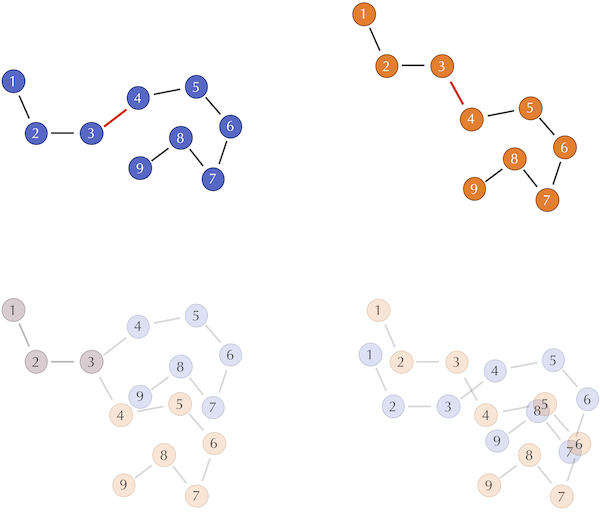
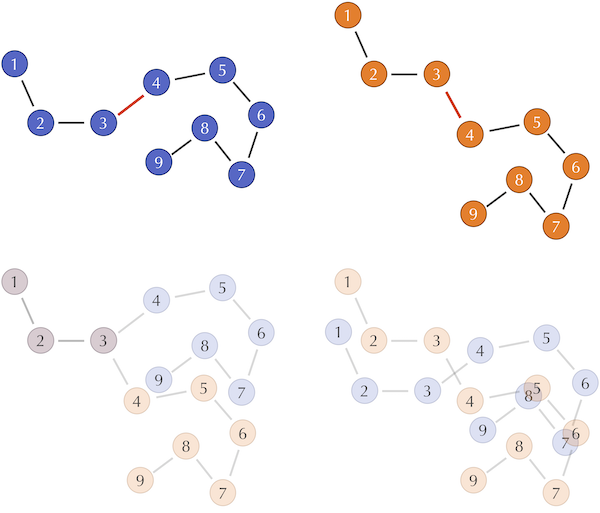
polishing up rest of rmsd

diff --git a/assets/tex/chapters/coronavirus_1.tex b/assets/tex/chapters/coronavirus_1.tex
@@ -543,15 +543,13 @@ Throughout the above discussion, we have assumed that we already rotated (and po
 \phantomsection
 \subsection{PDB format represents a protein's structure}
 
-The Kabsch algorithm offers a compelling way to determine the similarity of two protein structures. We can convert a protein containing \textit{n} amino acids into a vector of length \textit{n} by selecting a single representative point from each amino acid. We typically use the alpha carbon, the amino acid's centrally located carbon atom (recall the chemical structure of an amino acid from \autoref{fig:AminoAcid}).
-
-Whether a protein structure is experimentally validated or predicted by an algorithm, the structure is often represented in a unified file format used by the PDB called \texttt{.pdb} format (\autoref{fig:simplifiedPDB}). In this format, each atom in the protein is labeled according to several different characteristics, including: the element from which the atom derives; the amino acid in which the atom is contained; the chain on which this amino acid is found; the position of the amino acid within this chain; and the 3D coordinates $(x, y, z)$ of the atom in angstroms ($10^{-10}$ meters).\\
+The Kabsch algorithm offers a compelling way to determine the similarity of two protein structures. We can convert a protein containing \textit{n} amino acids into a vector of length \textit{n} by selecting a single representative point from each amino acid. We typically use the alpha carbon, the amino acid's centrally located carbon atom (recall the chemical structure of an amino acid from \autoref{fig:AminoAcid}).\\
 
 \begin{figure}[h]
 \centering
 \mySfFamily
-\tiny
-\tabcolsep = 0.47em
+\scriptsize
+\tabcolsep = 0.4em
 \rowcolors{2}{gray!25}{white}
 \begin{tabular}{c c c c c c c c c c}
 \rowcolor{gray!50}
@@ -576,43 +574,40 @@ Whether a protein structure is experimentally validated or predicted by an algor
 \gray{2174} & ATOM & 16 & CZ & TYR& A & 28 & 173.161& 246.477& 224.723\\
 \gray{2175} & ATOM & 17 & OH & TYR& A & 28 & 172.710& 245.746& 225.795
 \end{tabular}
-\caption{Lines \text{2,159} to \text{2,175} of the \texttt{.pdb} file for the experimentally verified SARS-CoV-2 spike protein structure, PDB entry \href{http://www.rcsb.org/structure/6VXX}{6vxx}. These 17 lines contain information on the atoms taken from two amino acids, alanine and tyrosine. The rows corresponding to these amino acids' alpha carbons are shown in green and appear as ``CA'' under the ``Element'' column.  We have labeled the columns to make it clear what each column corresponds to: ``Index'' refers to the number of the amino acid; ``Element'' identifes the chemical element to which this atom corresponds; ``Chain'' indicates which chain the atom is found on; ``Position'' identifies the position in the protein of the amino acid from which the atom is taken; ``Coordinates'' indicates the \textvar{x}, \textvar{y}, and \textvar{z} coordinates of the atom's location in angstroms.}
+\caption{Lines \text{2,159} to \text{2,175} of the \texttt{.pdb} file for the experimentally verified SARS-CoV-2 spike protein structure, PDB entry \href{http://www.rcsb.org/structure/6VXX}{6vxx}. These 17 lines contain information on the atoms taken from two amino acids, alanine and tyrosine. The rows corresponding to these amino acids' alpha carbons are shown in green and appear as ``CA'' under the ``Element'' column.  We have labeled the columns to make it clear what each column corresponds to: ``Index'' refers to the number of the amino acid; ``Element'' identifies the chemical element to which this atom corresponds; ``Chain'' indicates which chain the atom is found on; ``Position'' identifies the position in the protein of the amino acid from which the atom is taken; ``Coordinates'' indicates the \textvar{x}, \textvar{y}, and \textvar{z} coordinates of the atom's location (in angstroms).}
 \label{fig:simplifiedPDB}
 \end{figure}
+
+Whether a protein structure is experimentally validated or predicted by an algorithm, the structure is often represented in a unified file format used by the PDB called \texttt{.pdb} format (\autoref{fig:simplifiedPDB}). In this format, each atom in the protein is labeled according to several different characteristics, including: the element from which the atom derives; the amino acid in which the atom is contained; the chain on which this amino acid is found; the position of the amino acid within this chain; and the 3D coordinates $(x, y, z)$ of the atom in angstroms ($10^{-10}$ meters).\\
 
 \begin{note}[%
 	\autoref{fig:simplifiedPDB} shows just part of the information needed to fully represent a protein structure. For example, a \texttt{.pdb} file will also contain information about the disulfide bonds between amino acids. For more information, consult the \href{http://www.wwpdb.org/documentation/file-format}{official PDB documentation}.
 	]\end{note}
 
-\FloatBarrier
 \phantomsection
 \subsection{The Kabsch algorithm can be fooled}
 
-\begin{qbox}[%
-	Can you think of an example in which a small difference between protein structures can cause a large inflation in RMSD score?
-	]\end{qbox}
+Although the Kabsch algorithm is powerful, we should be careful when using it. Consider \autoref{fig:RMSD_weakness_mutation}, which shows two toy protein structures; the orange structure (\textit{S}) is identical to the blue structure (\textit{T}) except for a change in a single bond angle between the third and fourth amino acids. And yet this tiny change in the protein's structure causes a significant increase in $d(s_{i}, t_{i})$ for every \textit{i} greater than 3, which inflates the RMSD.
 
-Unfortunately, the Kabsch algorithm can be fooled. Consider \autoref{fig:RMSD_weakness_mutation} showing two toy protein structures. The orange structure (\textit{S}) is identical to the blue structure (\textit{T}) except for a change in a single bond angle between the third and fourth amino acids. And yet this tiny change in the protein's structure causes a significant increase in $d(s_{i}, t_{i})$ for every \textit{i} greater than 3, which inflates the RMSD.
-
-\begin{figure}[p]
+\begin{figure}[ht]
 	\centering
 	\mySfFamily
-	\includegraphics[width = 0.8\textwidth]{../images/RMSD_weakness_mutation.png}
-	\caption{(Top) Two hypothetical protein structures that differ in only a single bond angle between the third and fourth amino acids, shown in red. Each circle represents an alpha carbon. (Bottom left) Superimposing the first three amino acids shows how much the change in the bond angle throws off the computation of RMSD by increasing the distances between corresponding alpha carbons. (Bottom right) The Kabsch algorithm would align the centers of gravity of the two structures in order to minimize RMSD between corresponding alpha carbons. This alignment belies the similarity in the structures and makes it difficult for the untrained observer to notice that the two proteins only really differ in a single bond angle.}
+	\includegraphics[width = 0.7\textwidth]{../images/RMSD_weakness_mutation.png}\\[2ex]
+	\caption{(Top) Two hypothetical protein structures that differ in only a single bond angle between the third and fourth amino acids, shown in red. Each circle represents an alpha carbon. (Bottom left) Superimposing the first three amino acids shows how much the change in the bond angle throws off the computation of RMSD by increasing the distances between corresponding alpha carbons. (Bottom right) The Kabsch algorithm would align the centers of gravity of the two structures in order to minimize RMSD between corresponding alpha carbons. This alignment belies the similarity in the structures and makes it difficult for the untrained observer to notice that the two proteins only differ in a single bond angle.}
 	\label{fig:RMSD_weakness_mutation}
 \end{figure}
 
-Another way in which the Kabsch algorithm can be fooled is in the case of an appended substructure that throws off the ordering of the amino acids. \autoref{fig:RMSD_weakness_loop} shows a toy example of a structure into which we incorporate a loop, thus throwing off the natural order of comparing amino acids. (The same effect is caused if one or more amino acids are deleted from one of the two proteins.)\\
+Another way in which the Kabsch algorithm can be tricked is in the case of an appended substructure that throws off the ordering of the amino acids. \autoref{fig:RMSD_weakness_loop} shows a toy example of a structure into which we incorporate a loop, thus throwing off the natural order of comparing amino acids. (The same effect is caused if one or more amino acids are deleted from one of the two proteins.)
 
-\begin{figure}[h]
+\begin{figure}[hb]
 	\centering
 	\mySfFamily
 	\includegraphics[width = 0.7\textwidth]{../images/RMSD_weakness_loop.png}
-	\caption{A simplification of two protein structures, one of which includes a loop of three amino acids. After the loop, each amino acid in the orange structure will be compared against an amino acid that occurs farther long in the blue structure, thus increasing $\textvar{d}(\textvar{s}_{\textvar{i}}, \textvar{t}_{\textvar{i}})^\text{2}$ for each such amino acid.}
+	\caption{Two toy two protein structures, one of which includes a loop of three amino acids. After the loop, each amino acid in the orange structure will be compared against an amino acid that occurs farther long in the blue structure, thus increasing $\textvar{d}(\textvar{s}_{\textvar{i}}, \textvar{t}_{\textvar{i}})^\text{2}$ for each such amino acid.}
 	\label{fig:RMSD_weakness_loop}
 \end{figure}
 
-To address this shortcoming, biologists will often align the sequences of two proteins first, discarding any positions that do not align well when it comes time to perform the RMSD calculation. We will soon see an example of a protein sequence alignment soon when comparing the coronavirus spike proteins.
+To address this second issue, biologists will often align the sequences of two proteins first, discarding any positions that do not align well when it comes time to perform the RMSD calculation. We will soon see an example of a protein sequence alignment when comparing the coronavirus spike proteins.
 
 In short, if the RMSD of two proteins is \textit{large}, then we should be wary of concluding that the proteins are very different, and we may need to combine RMSD with other methods of structure comparison. But if the RMSD is \textit{small} (e.g., just a few angstroms), then we can have confidence that the proteins are indeed similar.
 

diff --git a/_pages/coronavirus/accuracy.md b/_pages/coronavirus/accuracy.md
@@ -36,8 +36,6 @@ We first translate *S* to have the same **center of mass** (or **center of mass*
 
 The center of mass of some shapes, like the arc in the preceding example, can be determined mathematically. But for irregular shapes, we will first sample *n* points from the boundary of *S* and then estimate *x*<sub><em>S</em></sub> and *y*<sub><em>S</em></sub> as the average of all the respective *x*- and *y*-coordinates from the sampled points.
 
-
-
 After finding the center of mass of the two shapes *S* and *T* that we wish to compare, we translate *S* so that it has the same center of mass as *T*. We then wish to find the rotation of *S*, possibly along with a flip as well, that makes the shape resemble *T* as much as possible.
 
 Imagine that we have found the desired rotation; we are now ready to define *d*(*S*, *T*) in the following way. We sample *n* points along the boundary of each shape, converting *S* and *T* into **vectors** **s** = (*s*<sub>1</sub>, ..., *s*<sub><em>n</em></sub>) and **t** = (*t*<sub>1</sub>, ..., *t*<sub><em>n</em></sub>), where *s*<sub><em>i</em></sub> is the *i*-th point on the boundary of *S*. The **root mean square deviation (RMSD)** between the two shapes is the square root of the average squared distance between corresponding points in the vectors,
@@ -77,10 +75,6 @@ However, we have still assumed that we already rotated (and possibly flipped) *S
 
 The best way of rotating and flipping *S* so as to minimize the RMSD between the resulting vectors *s* and *t* can be found with a method called the **Kabsch algorithm**. Explaining this algorithm requires some advanced linear algebra and is beyond the scope of our work but is described <a href="https://en.wikipedia.org/wiki/Kabsch_algorithm" target="_blank">here</a>.
 
-## PDB format represents a protein’s structure
-
-The Kabsch algorithm offers a compelling way to determine the similarity of two protein structures. We can convert a protein containing *n* amino acids into a vector of length *n* by selecting a single representative point from each amino acid. We typically use the alpha carbon, the amino acid's centrally located carbon atom; the position of this atom will be present in the `.pdb` file for a given structure.
-
 ## PDB format represents a protein's structure
 
 The Kabsch algorithm offers a compelling way to determine the similarity of two protein structures. We can convert a protein containing *n* amino acids into a vector of length *n* by selecting a single representative point from each amino acid. We typically use the alpha carbon, the amino acid’s centrally located carbon atom.
@@ -93,8 +87,8 @@ Whether a protein structure is experimentally validated or predicted by an algor
 4. the position of the amino acid within this chain; and
 5. the 3D coordinates (*x*, *y*, *z*) of the atom in angstroms (10<sup>-10</sup> meters).
 
-[![image-center](../assets/images/600px/simplifiedPDB.png){: .align-center}](../assets/images/simplifiedPDB.png)
-A simplified diagram showing how the `.pdb` format encodes the 3D coordinates of every atom while labeling the identity of this atom and the chain on which it is found. Source: [https://proteopedia.org/wiki/index.php/Atomic_coordinate_file](https://proteopedia.org/wiki/index.php/Atomic_coordinate_file).
+[![image-center](../assets/images/600px/pdb_format_example.png){: .align-center}](../assets/images/pdb_format_example.png)
+Lines 2,159 to 2,175 of the `.pdb` file for the experimentally verified SARS-CoV-2 spike protein structure, PDB entry 6vxx. These 17 lines contain information on the atoms taken from two amino acids, alanine and tyrosine. The rows corresponding to these amino acids’ alpha carbons are shown in green and appear as "CA" under the "Element" column. We have labeled the columns to make it clear what each column corresponds to: "Index" refers to the number of the amino acid; "Element" identifies the chemical element to which this atom corresponds; "Chain" indicates which chain the atom is found on; "Position" identifies the position in the protein of the amino acid from which the atom is taken; "Coordinates" indicates the x, y, and z coordinates of the atom’s location (in angstroms).
 {: style="font-size: medium;"}
 
 **Note:** The above figure shows just part of the information needed to fully represent a protein structure. For example, a `.pdb` file will also contain information about the disulfide bonds between amino acids. For more information, consult the <a href="http://www.wwpdb.org/documentation/file-format" target="_blank">official PDB documentation</a>).
@@ -102,22 +96,19 @@ A simplified diagram showing how the `.pdb` format encodes the 3D coordinates of
 
 ## The Kabsch algorithm can be fooled
 
-**STOP:** Can you think of an example in which a small difference between protein structures can cause a large inflation in RMSD score?
-{: .notice--primary}
-
-Unfortunately, the Kabsch algorithm can be fooled. Consider the figure below showing two toy protein structures. The orange structure (*S*) is identical to the blue structure (*T*) except for a change in a single bond angle between the third and fourth amino acids. And yet this tiny change in the protein's structure causes a significant increase in *d*(*s*<sub><em>i</em></sub>, *t*<sub><em>i</em></sub>) for every *i* greater than 3, which inflates the RMSD.
+Although the Kabsch algorithm is powerful, we should be careful when using it. Consider the figure below, which shows two toy protein structures; the orange structure (*S*) is identical to the blue structure (*T*) except for a change in a single bond angle between the third and fourth amino acids. And yet this tiny change in the protein's structure causes a significant increase in *d*(*s*<sub><em>i</em></sub>, *t*<sub><em>i</em></sub>) for every *i* greater than 3, which inflates the RMSD.
 
 [![image-center](../assets/images/600px/RMSD_weakness_mutation.png){: .align-center}](../assets/images/RMSD_weakness_mutation.png)
-(Top) Two hypothetical protein structures that differ in only a single bond angle between the third and fourth amino acids, shown in red. Each circle represents an alpha carbon. (Bottom left) Superimposing the first three amino acids shows how much the change in the bond angle throws off the computation of RMSD by increasing the distances between corresponding alpha carbons. (Bottom right) The Kabsch algorithm would align the centers of gravity of the two structures in order to minimize RMSD between corresponding alpha carbons. This alignment belies the similarity in the structures and makes it difficult for the untrained observer to notice that the two proteins only really differ in a single bond angle.
+(Top) Two hypothetical protein structures that differ in only a single bond angle between the third and fourth amino acids, shown in red. Each circle represents an alpha carbon. (Bottom left) Superimposing the first three amino acids shows how much the change in the bond angle throws off the computation of RMSD by increasing the distances between corresponding alpha carbons. (Bottom right) The Kabsch algorithm would align the centers of gravity of the two structures in order to minimize RMSD between corresponding alpha carbons. This alignment belies the similarity in the structures and makes it difficult for the untrained observer to notice that the two proteins only differ in a single bond angle.
 {: style="font-size: medium;"}
 
-Another way in which the Kabsch algorithm can be fooled is in the case of an appended substructure that throws off the ordering of the amino acids. The following figure shows a toy example of a structure into which we incorporate a loop, thus throwing off the natural order of comparing amino acids. (The same effect is caused if one or more amino acids are deleted from one of the two proteins.)
+Another way in which the Kabsch algorithm can be tricked is in the case of an appended substructure that throws off the ordering of the amino acids. The following figure shows a toy example of a structure into which we incorporate a loop, thus throwing off the natural order of comparing amino acids. (The same effect is caused if one or more amino acids are deleted from one of the two proteins.)
 
 [![image-center](../assets/images/600px/RMSD_weakness_loop.png){: .align-center}](../assets/images/RMSD_weakness_loop.png)
-A simplification of two protein structures, one of which includes a loop of three amino acids. After the loop, each amino acid in the orange structure will be compared against an amino acid that occurs farther long in the blue structure, thus increasing *d*(*s*<sub><em>i</em></sub>, *t*<sub><em>i</em></sub>)<sup>2</sup> for each such amino acid.
+Two toy two protein structures, one of which includes a loop of three amino acids. After the loop, each amino acid in the orange structure will be compared against an amino acid that occurs farther long in the blue structure, thus increasing *d*(*s*<sub><em>i</em></sub>, *t*<sub><em>i</em></sub>)<sup>2</sup> for each such amino acid.
 {: style="font-size: medium;"}
 
-To address this shortcoming, biologists will often align the sequences of two proteins first, discarding any positions that do not align well when it comes time to perform the RMSD calculation. We will soon see an example of a protein sequence alignment soon when comparing the coronavirus spike proteins.
+To address this second issue, biologists will often align the sequences of two proteins first, discarding any positions that do not align well when it comes time to perform the RMSD calculation. We will soon see an example of a protein sequence alignment when comparing the coronavirus spike proteins.
 
 In short, if the RMSD of two proteins is *large*, then we should be wary of concluding that the proteins are very different, and we may need to combine RMSD with other methods of structure comparison. But if the RMSD is *small* (e.g., just a few angstroms), then we can have confidence that the proteins are indeed similar.
 
